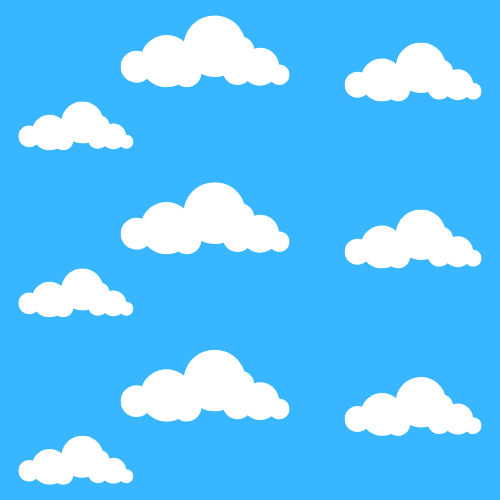
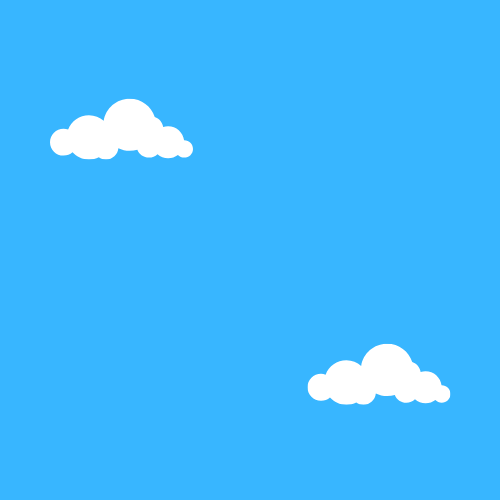
adjust obs, bg image and intervals

diff --git a/game.js b/game.js
@@ -19,8 +19,6 @@ let playerX = (gameWidth - playerWidth) / 2;
 let playerY = 0;
 let startX, startY;
 
-const speed = 20;
-
 recordEl.textContent = `Record: ${record}`;
 
 /* =======================
@@ -65,6 +63,8 @@ game.addEventListener("touchstart", (e) => {
 /* =======================
    MOVEMENT
 ======================= */
+
+const speed = 12;
 
 function moveLeft() {
     playerX = Math.max(0, playerX - speed);
@@ -111,7 +111,7 @@ function createObstacle() {
     const interval = setInterval(() => {
         if (!gameRunning) return;
 
-        y += 4;
+        y += 5;
         obs.style.top = y + "px";
 
         if (checkCollision(obs)) {
@@ -128,7 +128,7 @@ function createObstacle() {
                 scoreEl.textContent = `Score: ${score}`;
             }
         }
-    }, 20);
+    }, 25);
 
     obstacleIntervals.push(interval);
 }
@@ -146,7 +146,7 @@ function checkCollision(obs) {
     const pHit = {
         top: p.top + padding,
         bottom: p.bottom - padding,
-        left: p.left + padding - 5,
+        left: p.left + padding,
         right: p.right - padding
     };
 
@@ -192,7 +192,7 @@ function startGame() {
     
     startBtn.textContent = "STOP";
     
-    obstacleInterval = setInterval(createObstacle, 1200);
+    obstacleInterval = setInterval(createObstacle, 1500);
 }
 
 function stopGame() {

diff --git a/style.css b/style.css
@@ -67,7 +67,7 @@ body {
 .bg.clouds {
     background-image: url("clouds.png");
     background-repeat: repeat-y;
-    background-size: cover;
+    background-size: contain;
     animation: cloudsMove 30s linear infinite;
     opacity: 0.8;
 }

diff --git a/service-worker.js b/service-worker.js
@@ -1,4 +1,4 @@
-const CACHE_NAME = 'air-dodge-v6';
+const CACHE_NAME = 'air-dodge-v7';
 const urlsToCache = [
   '/',
   '/index.html',
